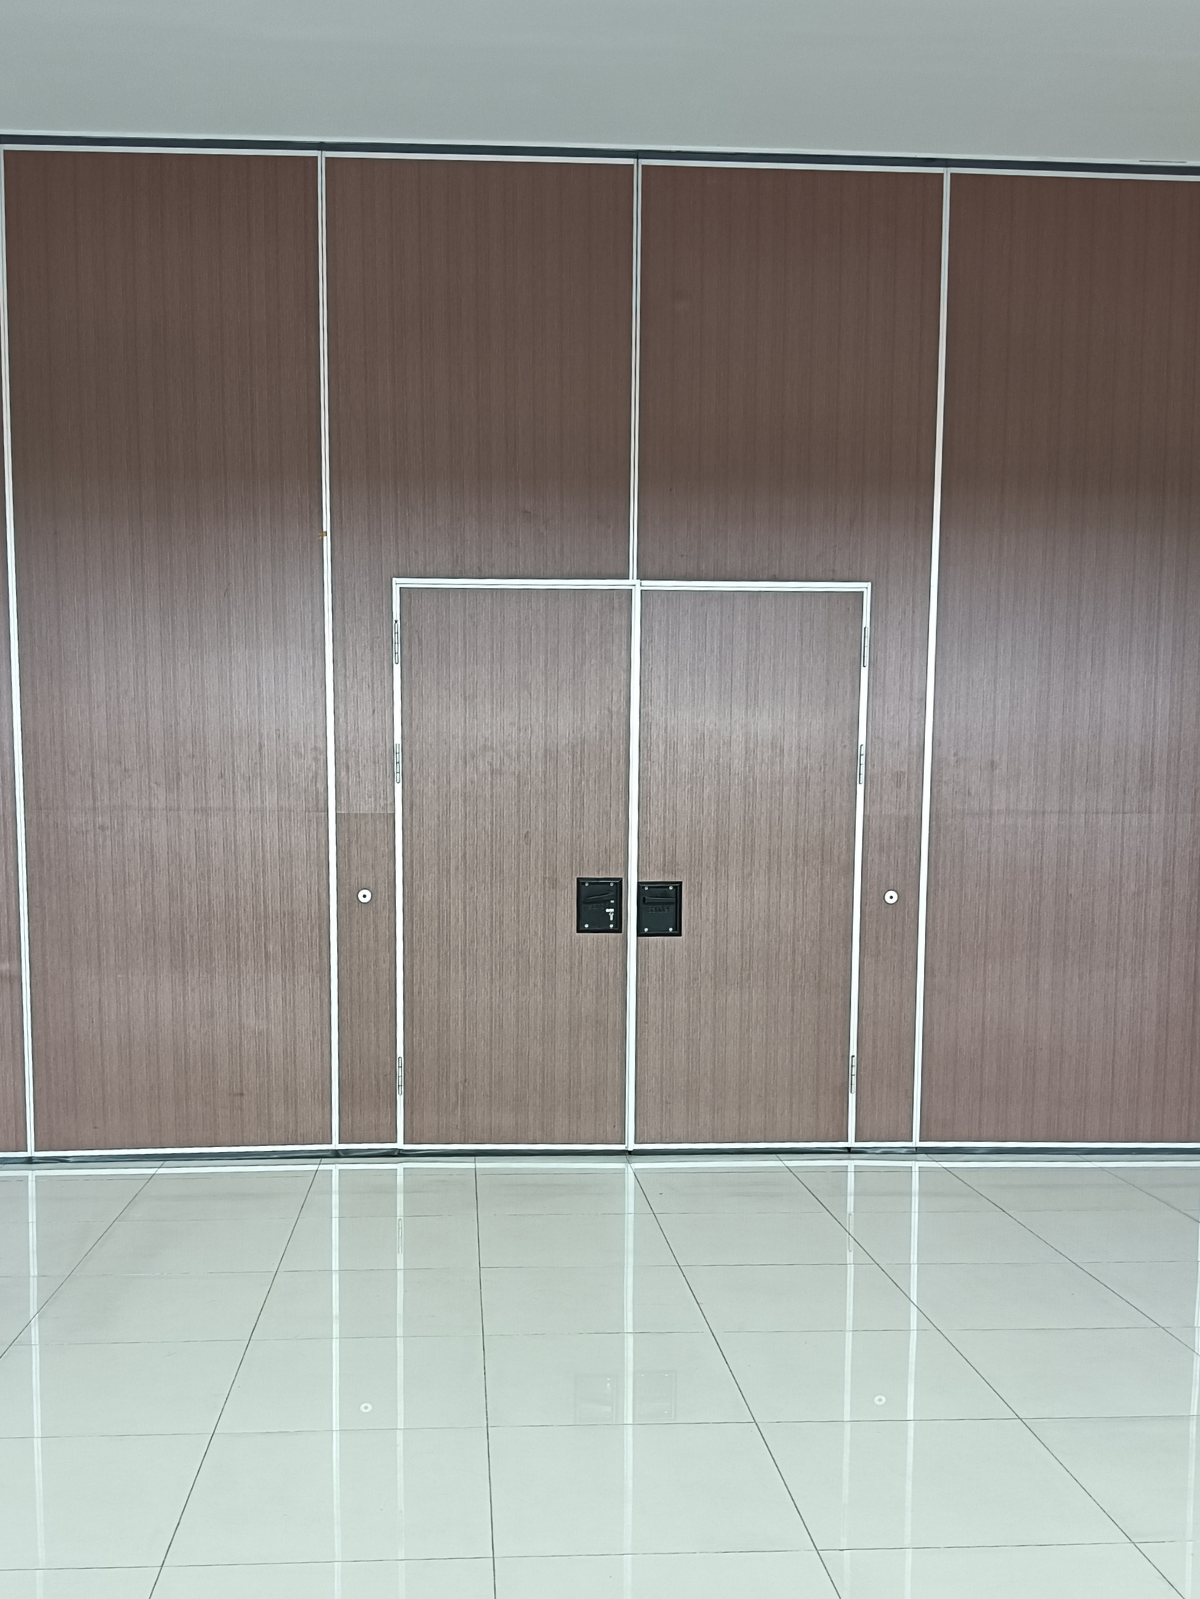
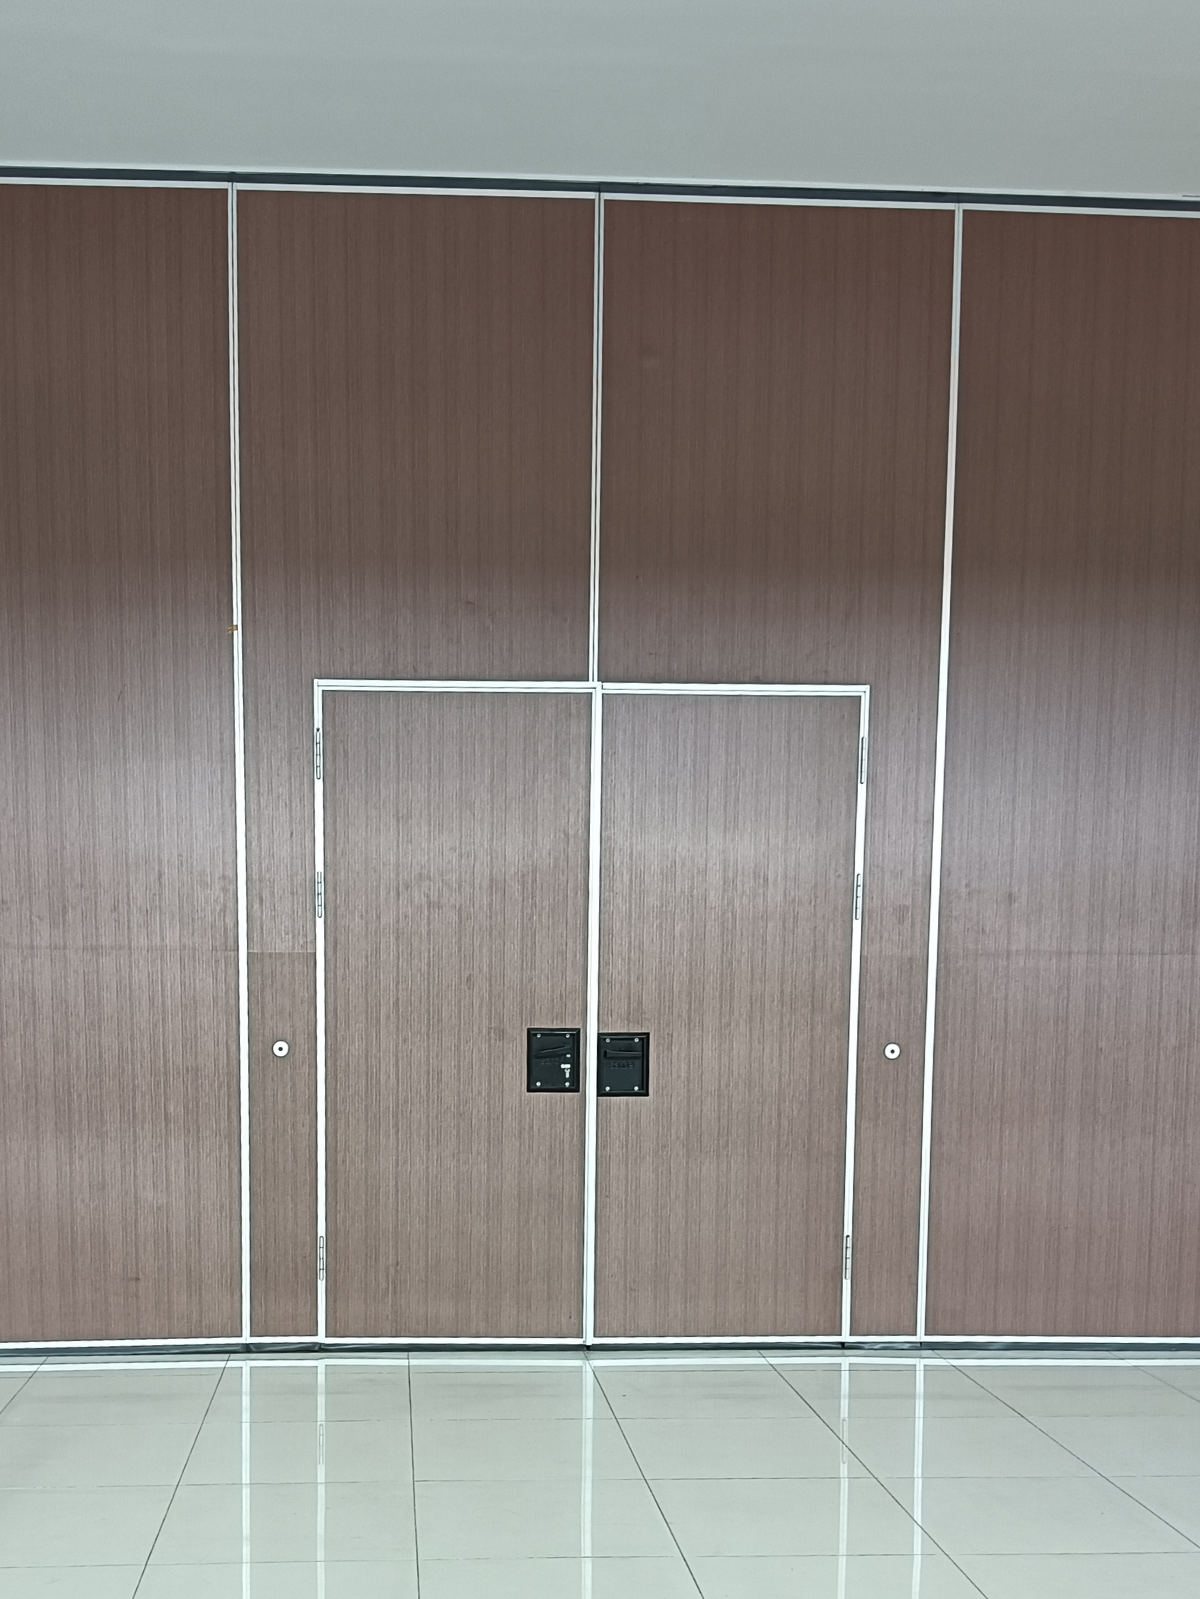
update

diff --git a/frontend/src/pages/ConfirmPage.jsx b/frontend/src/pages/ConfirmPage.jsx
@@ -52,7 +52,6 @@ const IconCheck = () => (
   </svg>
 );
 
-// Flag icon:  used before location name in the confirm panel
 const IconFlag = () => (
   <svg
     viewBox="0 0 24 24"
@@ -87,14 +86,19 @@ const IconBuilding = () => (
 export default function ConfirmPage() {
   const navigate = useNavigate();
   const { state } = useLocation();
-  const { from, to, priority, nodes, toName, result, confirmationImage } =
+  const { from, to, priority, nodes, toName, result, confirmationImages } =
     state || {};
   const [arrived, setArrived] = useState(false);
+  const [imgIndex, setImgIndex] = useState(0);
 
   const steps = result?.steps || [];
 
   const destName =
     toName || nodes?.find((n) => Number(n.id) === Number(to))?.nama || "Tujuan";
+
+  // array foto konfirmasi (bisa 1 atau lebih)
+  const images = confirmationImages || [];
+  const hasMultiple = images.length > 1;
 
   const handleNo = () => {
     const lastStep = steps[steps.length - 1];
@@ -202,12 +206,14 @@ export default function ConfirmPage() {
       </div>
 
       {/* Destination photo */}
-      {confirmationImage ? (
+      {images.length > 0 ? (
         <div className="relative" style={{ height: "52vh" }}>
           <img
-            src={imgUrl(confirmationImage)}
-            alt={destName}
+            key={imgIndex}
+            src={imgUrl(images[imgIndex])}
+            alt={`${destName} foto ${imgIndex + 1}`}
             className="w-full h-full object-cover"
+            style={{ animation: "fadeIn 0.2s ease both" }}
           />
           <div
             className="absolute inset-x-0 bottom-0 h-28"
@@ -216,6 +222,56 @@ export default function ConfirmPage() {
                 "linear-gradient(to top, rgba(0,0,0,0.55), transparent)",
             }}
           />
+
+          {/* Arrow buttons for multiple photos */}
+          {hasMultiple && (
+            <>
+              {/* Left arrow */}
+              {imgIndex > 0 && (
+                <button
+                  onClick={() => setImgIndex((i) => i - 1)}
+                  className="absolute left-3 top-1/2 -translate-y-1/2 w-10 h-10 rounded-full bg-black/40 backdrop-blur-sm flex items-center justify-center text-white active:bg-black/60 transition-colors"
+                >
+                  <svg
+                    viewBox="0 0 24 24"
+                    fill="none"
+                    stroke="currentColor"
+                    strokeWidth="2.5"
+                    strokeLinecap="round"
+                    strokeLinejoin="round"
+                    className="w-5 h-5"
+                  >
+                    <polyline points="15 18 9 12 15 6" />
+                  </svg>
+                </button>
+              )}
+
+              {/* Right arrow */}
+              {imgIndex < images.length - 1 && (
+                <button
+                  onClick={() => setImgIndex((i) => i + 1)}
+                  className="absolute right-3 top-1/2 -translate-y-1/2 w-10 h-10 rounded-full bg-black/40 backdrop-blur-sm flex items-center justify-center text-white active:bg-black/60 transition-colors"
+                >
+                  <svg
+                    viewBox="0 0 24 24"
+                    fill="none"
+                    stroke="currentColor"
+                    strokeWidth="2.5"
+                    strokeLinecap="round"
+                    strokeLinejoin="round"
+                    className="w-5 h-5"
+                  >
+                    <polyline points="9 18 15 12 9 6" />
+                  </svg>
+                </button>
+              )}
+
+              {/* Photo counter */}
+              <div className="absolute top-3 right-3 bg-black/50 backdrop-blur-sm text-white text-xs font-semibold px-3 py-1 rounded-full">
+                {imgIndex + 1} / {images.length}
+              </div>
+            </>
+          )}
         </div>
       ) : (
         <div

diff --git a/backend/src/routes/route.js b/backend/src/routes/route.js
@@ -25,7 +25,7 @@ function isRushHour() {
     [9 * 60 + 30, 10 * 60 + 10], // 09:30 – 10:10
     [11 * 60 + 40, 12 * 60 + 20], // 11:40 – 12:20
     [12 * 60 + 40, 13 * 60 + 10], // 12:40 – 13:10
-    [17 * 60 + 3, 17 * 60 + 4],
+    // [22 * 60 + 31, 22 * 60 + 32],
   ];
 
   return rushWindows.some(
@@ -65,7 +65,18 @@ async function buildGraph() {
       const fromNode = graph[String(edge.from_id)];
       const toNode = graph[String(edge.to_id)];
       const isWaitingLift = fromNode?.tipe === 0 && toNode?.tipe === 2;
-      const rushPenalty = rushHour && isWaitingLift ? 25 * 15 : 0;
+
+      let rushPenalty = 0;
+      if (rushHour && isWaitingLift) {
+        const liftName = toNode.nama.toLowerCase();
+        if (liftName.includes("gedung 9")) {
+          // Gedung 9: worst case 18 lantai × 20 detik
+          rushPenalty = 18 * 20;
+        } else if (liftName.includes("ppag")) {
+          // PPAG: worst case 29 lantai × 15 detik
+          rushPenalty = 29 * 15;
+        }
+      }
 
       graph[String(edge.from_id)].neighbors.push({
         toId: edge.to_id,
@@ -272,7 +283,11 @@ router.get("/route", async (req, res) => {
 
     const pathStr = pathNodes.map((n) => n.nama).join(" -> ");
     const lastNodeId = result.path[result.path.length - 1];
-    const confirmationImage = graph[lastNodeId]?.confirmation_image || null;
+    // get confirmation image(s): split comma-separated confirmation images into array
+    const rawConfirmImg = graph[lastNodeId]?.confirmation_image || null;
+    const confirmationImages = rawConfirmImg
+      ? rawConfirmImg.split(",").map((s) => s.trim())
+      : [];
 
     // EDGE PAIRS
     const edgePairs = [];
@@ -314,7 +329,7 @@ router.get("/route", async (req, res) => {
     }
 
     // BUILD STEPS WITH LIFT COLLAPSING
-    // Consecutive lift-touching edges are collapsed into one step.
+    // Consecutive lift edges are collapsed into one step.
     // The petunjuk for that step is generated dynamically:
     // "Masuk lift, tekan tombol lantai [lantai_label]"
     const steps = [];
@@ -382,7 +397,7 @@ router.get("/route", async (req, res) => {
       cost: result.cost,
       path: pathNodes,
       steps,
-      confirmationImage,
+      confirmationImages,
     });
   } catch (err) {
     console.error("Error in /route:", err);

diff --git a/frontend/src/components/SearchDropdown.jsx b/frontend/src/components/SearchDropdown.jsx
@@ -49,7 +49,6 @@ const IconElevator = ({ className = "w-4 h-4" }) => (
   </svg>
 );
 
-// Magnifying glass: shown in the search input row
 const IconSearch = ({ className = "w-4 h-4" }) => (
   <svg
     viewBox="0 0 24 24"
@@ -94,6 +93,7 @@ const IconChevron = ({ className = "w-4 h-4" }) => (
     <polyline points="6 9 12 15 18 9" />
   </svg>
 );
+
 //getNodeIcon(tipe, className)
 // Returns the correct icon component for a node type
 function getNodeIcon(tipe, className) {
@@ -159,13 +159,9 @@ export default function SearchDropdown({
         </span>
       )}
 
-      {/* 
-          Looks like an input field but is a <button>
-
-          Because clicking it should toggle the dropdown, not let the user type directly
-
-          The actual typing happens inside the dropdown panel below.
-      */}
+      {/*Looks like an input field but is a <button>
+          clicking it should toggle the dropdown,
+          TTyping happens inside the dropdown panel below.*/}
       <button
         type="button"
         onClick={() => setOpen((o) => !o)}
@@ -210,10 +206,8 @@ export default function SearchDropdown({
           style={{ animation: "fadeUp 0.15s ease both" }}
         >
           {/* A real text <input> for filtering the list.
-
               autoFocus = browser automatically focuses this element when
-              the dropdown opens, so user can start typing immediately
-              without an extra tap.*/}
+              the dropdown opens, so user can start typing immediately without needing to tap the field*/}
           <div className="flex items-center gap-2 px-4 py-2.5 border-b border-surface-3">
             <span className="text-ink-3 shrink-0">
               <IconSearch className="w-4 h-4" />
@@ -246,7 +240,7 @@ export default function SearchDropdown({
                   className={[
                     "w-full flex items-center gap-3 px-4 py-3 text-left transition-colors",
                     "border-b border-surface-2 last:border-none",
-                    // Highlight currently selected item with indigo tint
+                    // Highlight currently selected item
                     node.id === value
                       ? "bg-primary-soft"
                       : "active:bg-primary-soft",

diff --git a/frontend/src/pages/RoutePage.jsx b/frontend/src/pages/RoutePage.jsx
@@ -1,9 +1,17 @@
 import { useState, useEffect } from "react";
 import { useNavigate, useLocation } from "react-router-dom";
 import { getRoute } from "../services/api.js";
+import {
+  House,
+  ArrowRight,
+  ArrowLeft,
+  Flag,
+  TriangleAlert,
+  SquareParking,
+  Image as ImageIcon,
+} from "lucide-react";
 
 const BACKEND_URL = import.meta.env.VITE_BACKEND_URL;
-console.log("BACKEND_URL:", BACKEND_URL);
 
 // to handles paths with or without leading slash
 const imgUrl = (path) => {
@@ -11,8 +19,7 @@ const imgUrl = (path) => {
   return BACKEND_URL + (path.startsWith("/") ? path : "/" + path);
 };
 
-// SVG ICONS
-// All from Lucide Icons (lucide.dev), inlined as JSx
+// SVG ICONS from lucide
 const IconHome = () => (
   <svg
     viewBox="0 0 24 24"
@@ -317,7 +324,7 @@ export default function RoutePage() {
         nodes,
         toName,
         result,
-        confirmationImage: result.confirmationImage,
+        confirmationImages: result.confirmationImages,
       },
     });
   };
@@ -421,17 +428,11 @@ export default function RoutePage() {
             </p>
           </div>
         )}
-        {/* Image counter */}
-        {/* {images.length > 1 && (
-          <div className="absolute top-3 right-3 bg-black/55 backdrop-blur-sm text-white text-xs font-semibold px-3 py-1 rounded-full">
-            {imageIndex + 1} / {images.length}
-          </div>
-        )} */}
       </div>
 
       {/* BOTTOM PANEL */}
       <div className="bg-white px-5 pt-4 pb-6 flex flex-col gap-4">
-        {/* 3. Petunjuk text  centered */}
+        {/*Petunjuk text  centered */}
         <p
           className={[
             "text-base leading-relaxed min-h-11 text-center",

diff --git a/frontend/src/components/PriorityCard.jsx b/frontend/src/components/PriorityCard.jsx
@@ -67,7 +67,7 @@ const ICON_MAP = {
   disabilitas: Icons.wheelchair,
 };
 
-// Accent colors per priority :  used for the icon container bg and selected state
+// Accent colors per priority
 const COLOR_MAP = {
   none: {
     bg: "bg-indigo-50",
